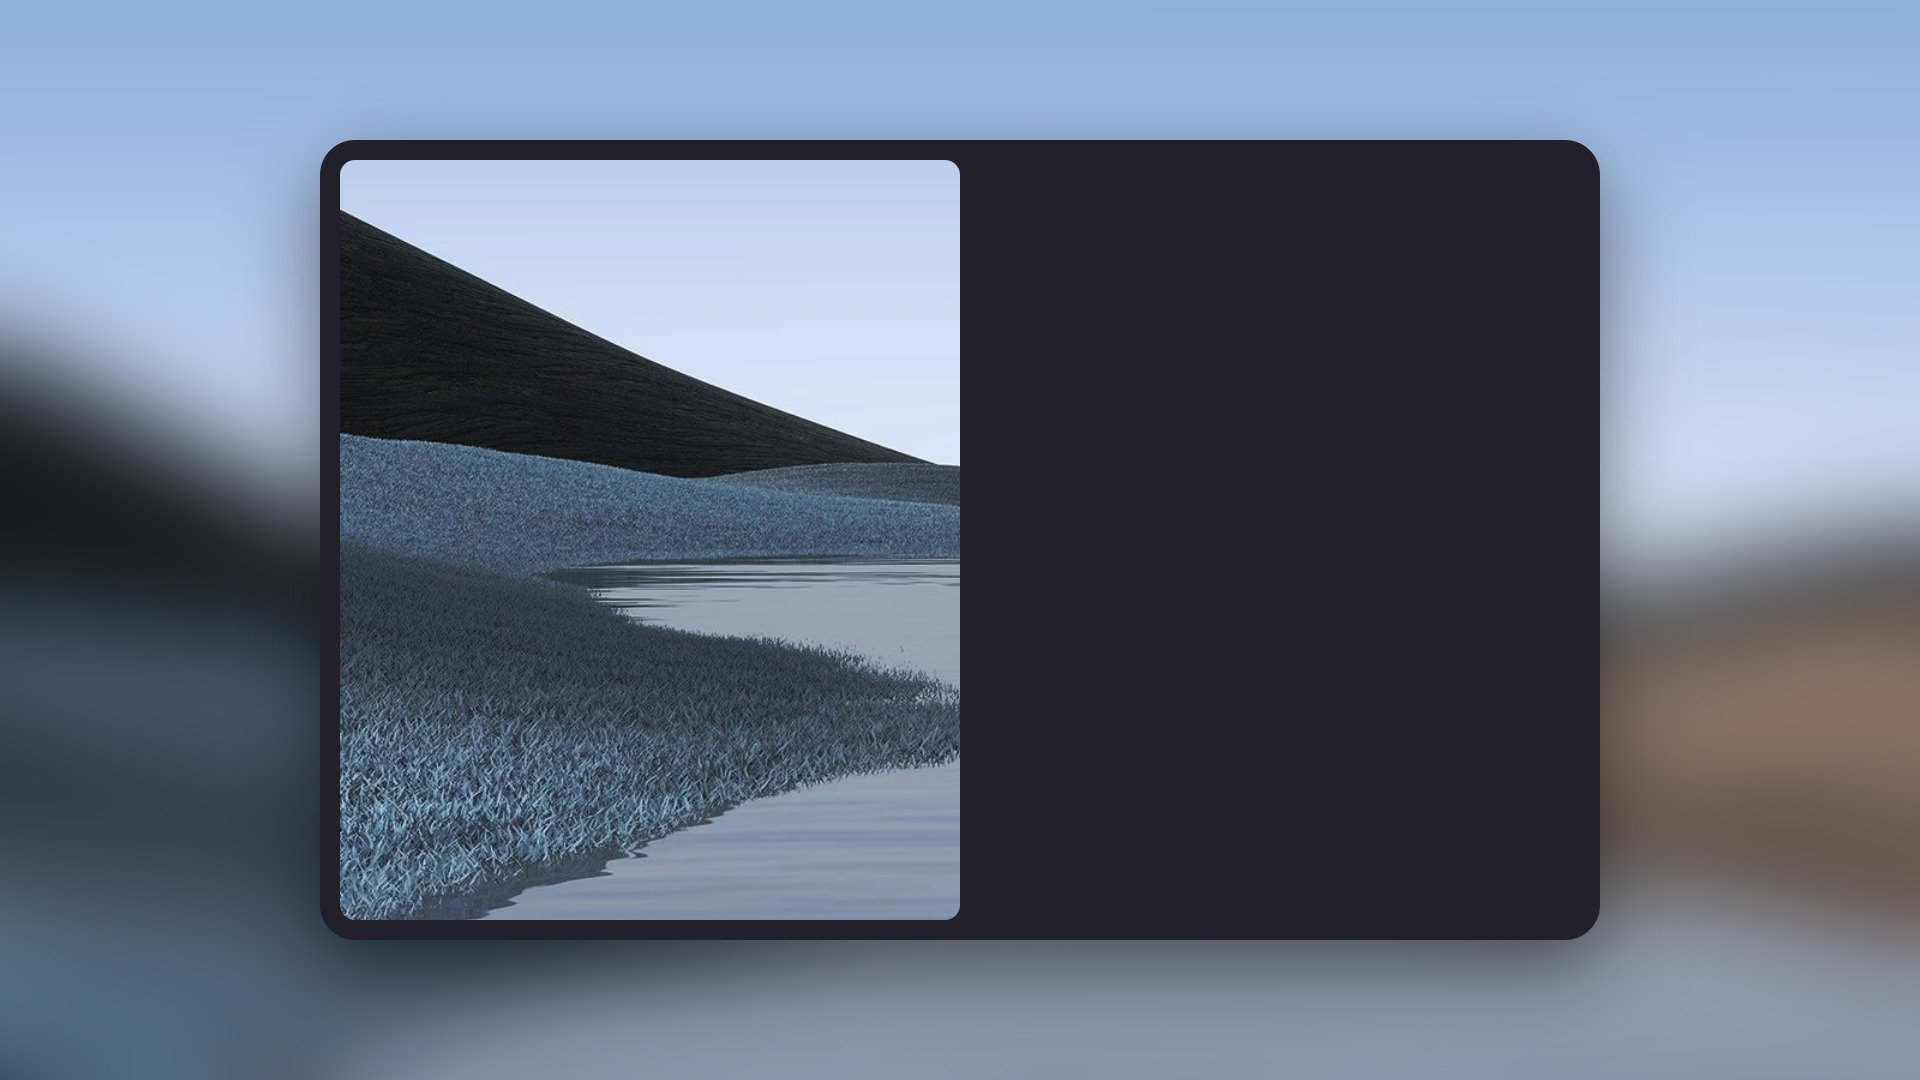
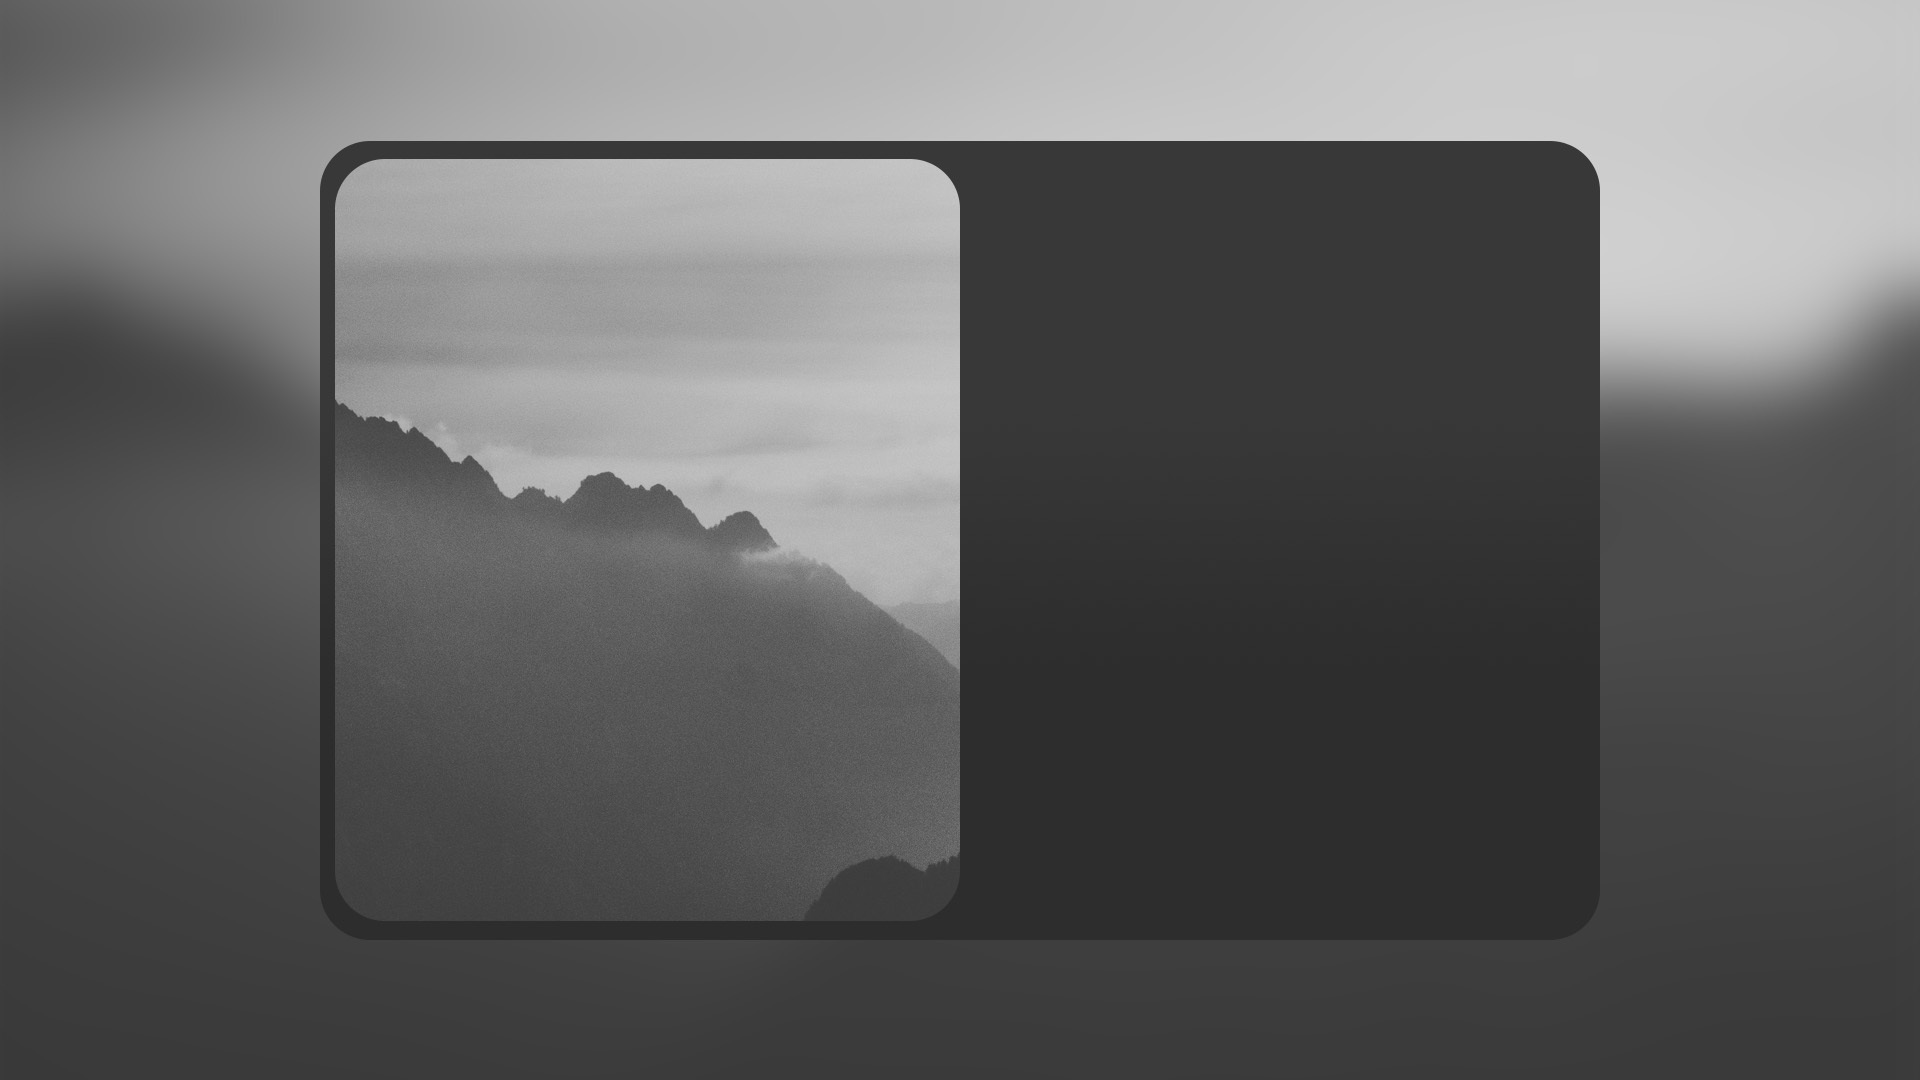
rewrite func is now working

diff --git a/BlacknWhite/wlogout/style.css b/BlacknWhite/wlogout/style.css
@@ -8,16 +8,14 @@ window {
 }
 
 button {
-  border-radius: 5;
-  border-color: black;
-  text-decoration-color: #FFFFFF;
   color: #FFFFFF;
   background-color: #000000;
-  border-style: solid;
-  border-width: 1px;
+  border: none;
+  border-radius: 0px;
+  outline-style: none;
   background-repeat: no-repeat;
   background-position: center;
-  background-size: 25%;
+  background-size: 20%;
 }
 
 button:focus,
@@ -28,10 +26,11 @@ button:hover {
   outline-style: none;
 }
 
+
 #lock {
-  margin: 0 50px 0 1000px;
-  padding: 0 0 0 0;
-  background-image: image(url("/usr/share/wlogout/icons/lock_white.png"), url("/usr/local/share/wlogout/icons/lock_white.png"));
+  border-radius: 5px 0 0 5px;
+  margin: 100px 0 500px 0;
+  background-image: image(url("/usr/share/wlogout/icons/lock_white.png"), url("/usr/local/share/wlogout/icons/lock.png"));
 }
 
 #logout {
